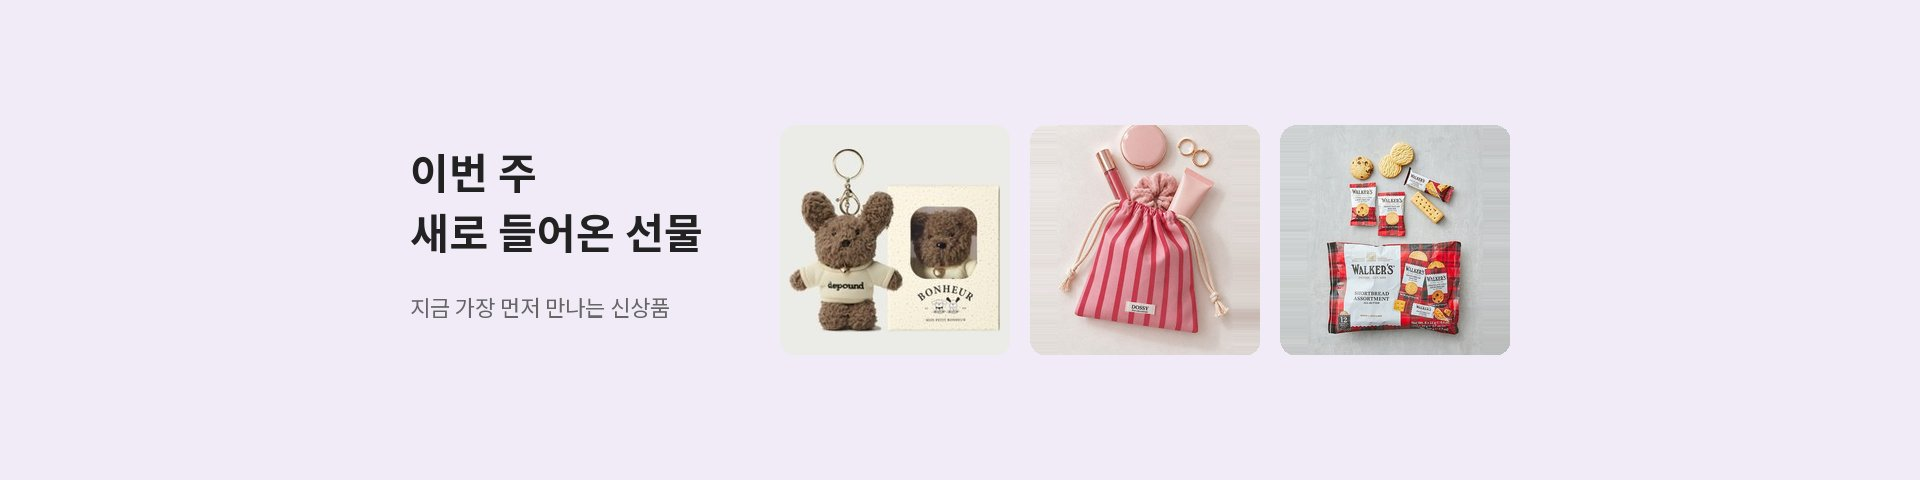
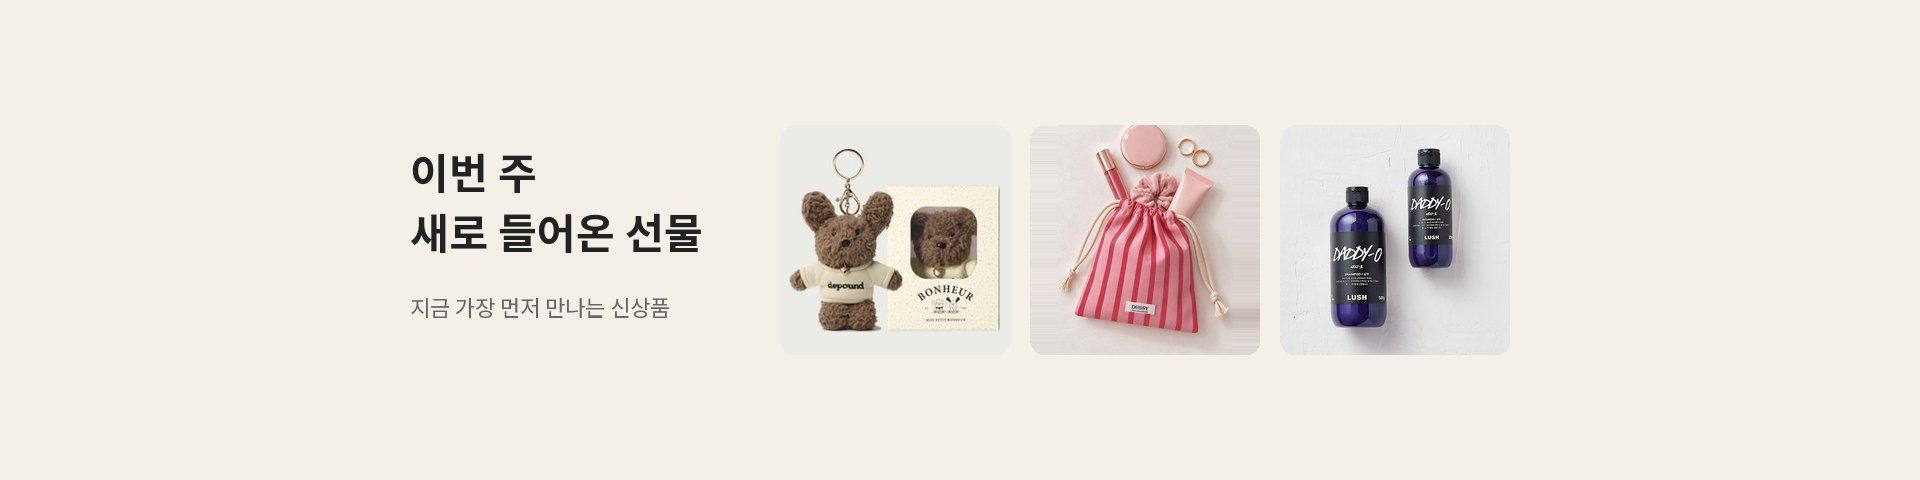
feat: 배너 화살표 위치, 목록 제목 정렬, 필터 태그 확장
- 홈 배너: 창이 좁아도 화살표가 보이는 화면 안에 오도록 resize, scroll 이벤트로 위치 계산
- 홈 배너 구성 변경 (키링, 파우치, 대디오 샴푸 / 디퓨저, 이솝, 모모스), 배너 1과 2 배경색 교환
- 배너 2를 누르면 리빙 카테고리 상품 목록으로 이동
- 전체 상품, 랭킹, 신상품, 친구 기념일 제목을 오른쪽 목록 기준 가운데로
- 상품 받는 사람, 상황 태그를 늘려 필터 결과가 더 많이 나오게 함
- 이솝, 모모스 커피를 리빙에서도 보이게 함 (moreCategories, inCategory)

Changed region(s): [[0.6562, 0.25, 0.8125, 0.75]]

diff --git a/15_goreuda_main.js b/15_goreuda_main.js
@@ -41,8 +41,26 @@ function drawBanner() {
 function moveToBanner() {
   const slideWidth = document.querySelector(".banner-slide").offsetWidth;
   document.querySelector("#banner-track").style.transform = "translateX(" + (-slideWidth * currentBanner) + "px)";
-
 }
+
+/* 화살표 위치 맞추기
+   창이 사이트 최소 너비(1200px)보다 좁으면 가로 스크롤이 생겨 화살표가 창 밖으로 나갈 수 있음
+   그래서 지금 보이는 화면의 왼쪽 끝, 오른쪽 끝에서 24px 안쪽에 화살표를 둠
+   window.scrollX: 가로로 스크롤한 거리 / clientWidth: 스크롤바를 뺀 창 너비 */
+function placeBannerArrows() {
+  const viewLeft = window.scrollX;
+  const viewWidth = document.documentElement.clientWidth;
+  document.querySelector("#banner-prev").style.left = (viewLeft + 24) + "px";
+  document.querySelector("#banner-next").style.left = (viewLeft + viewWidth - 24 - 48) + "px";
+}
+
+// 창 크기가 바뀌거나 가로로 스크롤하면 화살표 위치와 배너 너비를 다시 맞춤
+window.addEventListener("resize", function () {
+  placeBannerArrows();
+  moveToBanner();
+});
+window.addEventListener("scroll", placeBannerArrows);
+placeBannerArrows();
 
 // 버튼으로 넘긴 뒤에는 자동 넘김 시간을 처음부터 다시 셈
 document.querySelector("#banner-prev").addEventListener("click", function () {
@@ -181,7 +199,7 @@ function selectRankTab(button) {
 function drawRankList(categoryId) {
   const list = [];
   for (let i = 0; i < allProducts.length; i++) {
-    if (allProducts[i].category === categoryId) {
+    if (inCategory(allProducts[i], categoryId)) {
       list.push(allProducts[i]);
     }
   }

diff --git a/15_goreuda_common.js b/15_goreuda_common.js
@@ -46,6 +46,19 @@ function findName(list, id) {
   return "";
 }
 
+/* 상품이 이 카테고리에 속하는지 확인
+   category(기본 카테고리) 말고도 moreCategories(함께 보여줄 카테고리)에 있으면 포함
+   예: 이솝 핸드 워시는 뷰티 상품이지만 리빙에서도 보임 */
+function inCategory(product, categoryId) {
+  if (product.category === categoryId) {
+    return true;
+  }
+  if (product.moreCategories) {
+    return hasItem(product.moreCategories, categoryId);
+  }
+  return false;
+}
+
 // 배열 안에 값이 있는지 확인
 function hasItem(list, value) {
   for (let i = 0; i < list.length; i++) {

diff --git a/15_goreuda_explore.css b/15_goreuda_explore.css
@@ -67,3 +67,7 @@
 .explore-result .product-card { width: 33.33%; }
 .explore-result .card-thumb { height: 293px; }   /* 3개일 때 카드 너비에 맞춘 정사각형 */
 .explore-result .wish-btn { top: 245px; }
+
+/* 제목을 상품 목록(오른쪽) 기준 가운데에 오게 함
+   왼쪽 필터 너비(220px) + 필터와 목록 사이 여백(40px)만큼 왼쪽 안쪽 여백을 줌 */
+#explore-title { padding-left: 260px; }

diff --git a/15_goreuda_explore.js b/15_goreuda_explore.js
@@ -119,7 +119,7 @@ function inBudget(price) {
 
 // 상품 하나가 지금 조건에 맞는지 확인
 function matchFilter(product) {
-  if (filter.category !== "all" && product.category !== filter.category) {
+  if (filter.category !== "all" && !inCategory(product, filter.category)) {
     return false;
   }
   if (filter.recipient !== "all" && !hasItem(product.recipients, filter.recipient)) {

diff --git a/15_goreuda_friends.css b/15_goreuda_friends.css
@@ -39,3 +39,7 @@
 .friend-sub { font-size: 14px; color: #666666; }
 .friend-gifted { font-size: 12px; color: #999999; }
 .friend-buttons .btn { margin-left: 8px; }
+
+/* 제목을 오른쪽 기념일 목록 기준 가운데에 오게 함
+   왼쪽 등록 폼 너비(360px) + 폼과 목록 사이 여백(56px)만큼 왼쪽 안쪽 여백을 줌 */
+.page-title { padding-left: 416px; }

diff --git a/15_goreuda_main.css b/15_goreuda_main.css
@@ -40,8 +40,9 @@
   font-size: 28px;
   line-height: 44px;
 }
+/* 화살표 가로 위치는 JS(placeBannerArrows)에서 지금 보이는 화면 기준으로 정함 */
 .banner-arrow.prev { left: 24px; }
-.banner-arrow.next { right: 24px; }
+.banner-arrow.next { left: 1128px; }
 
 /* 상황별 테마 아이콘 한 줄 */
 .theme-section { padding-top: 48px; }
